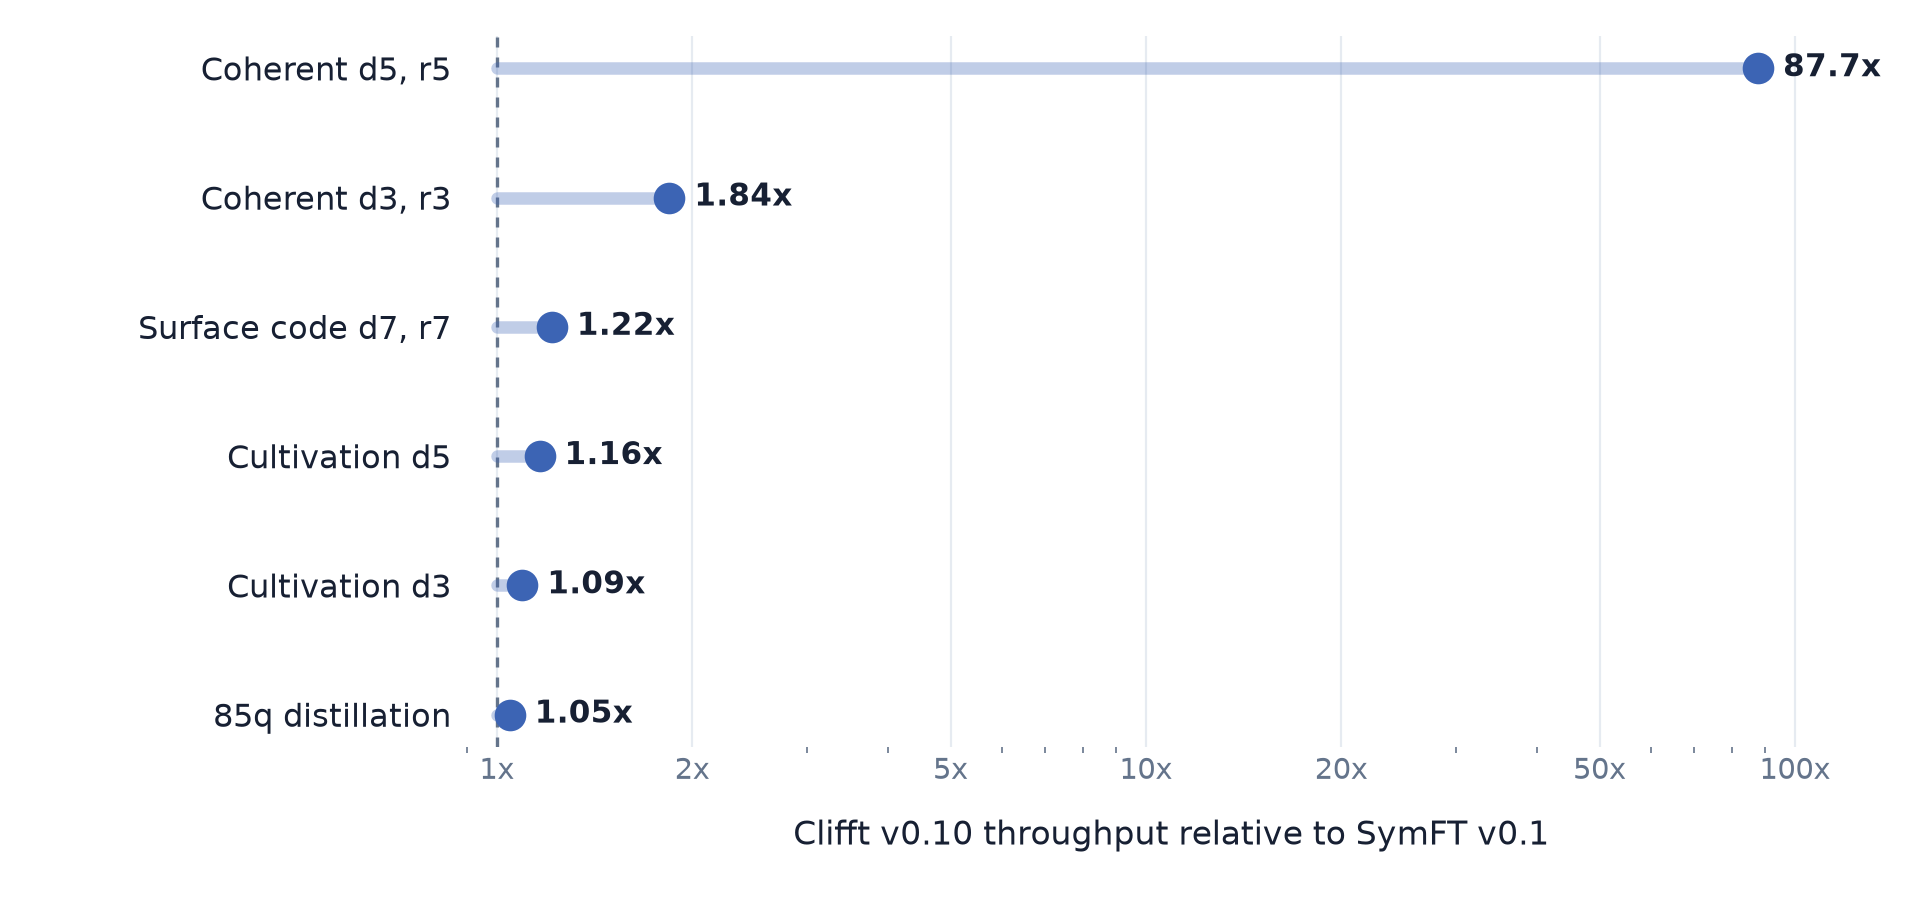
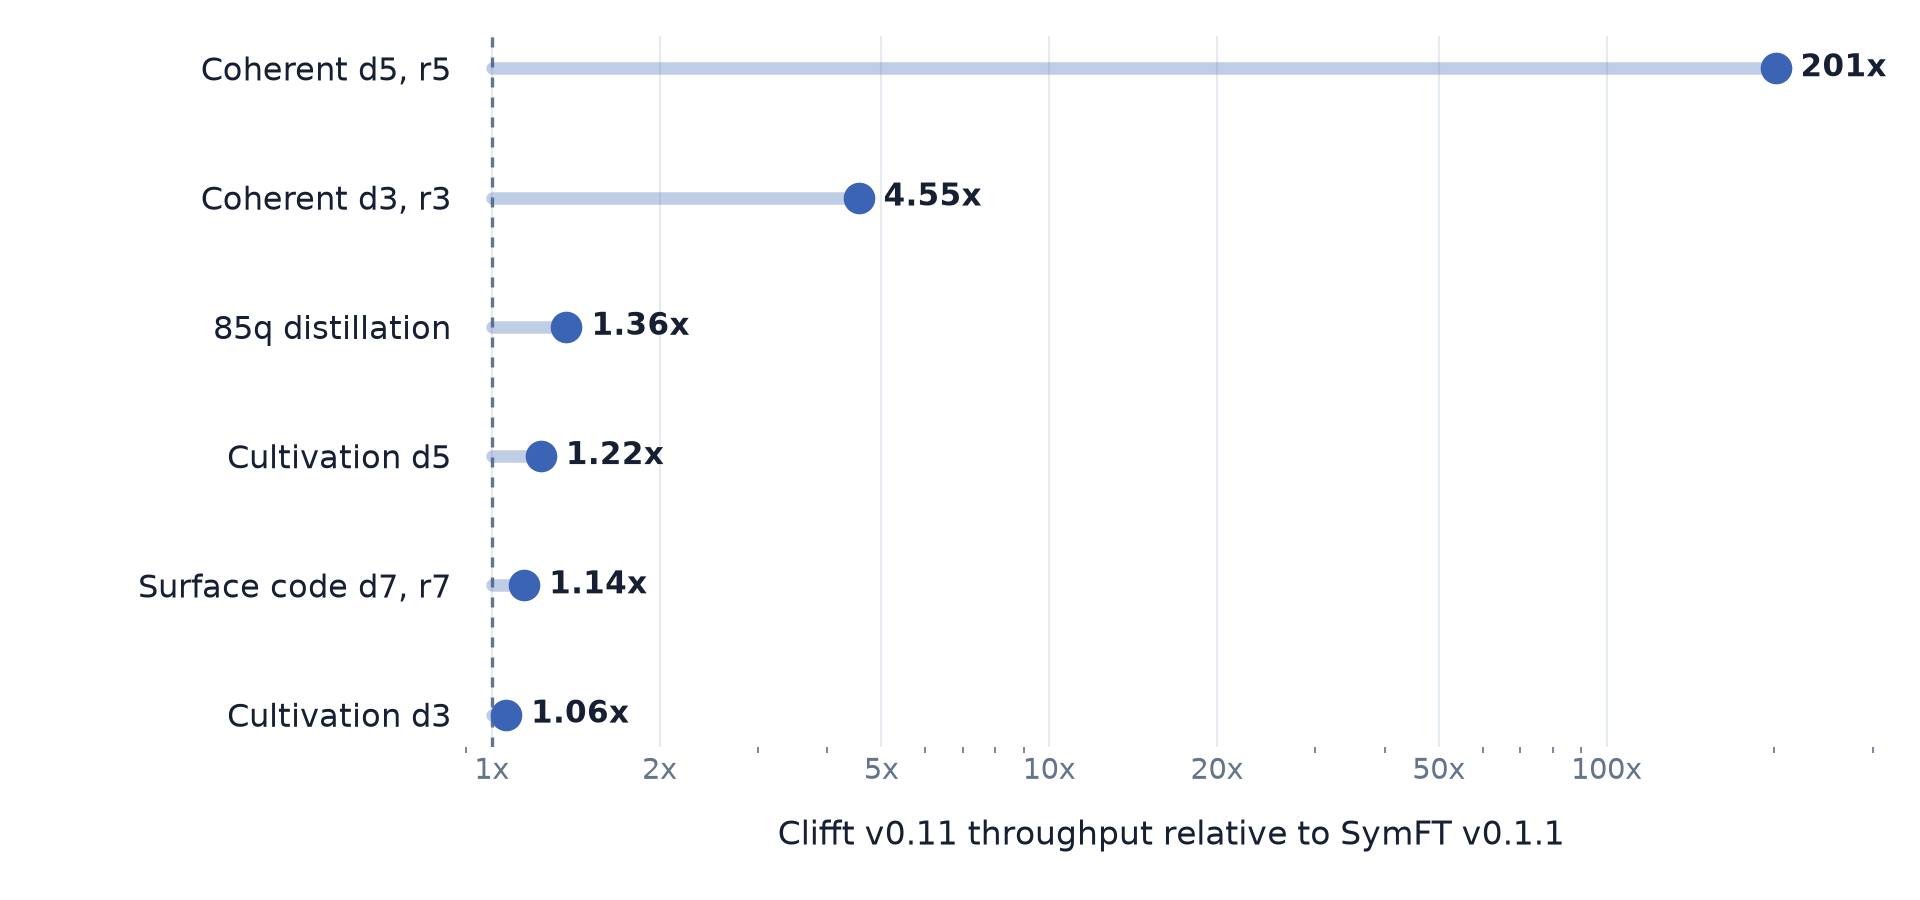
docs: report Clifft 0.11.0 benchmark results
Extend the reviewed release chain and regenerate the QEC publication and web figures. Update release labels, preserve the historical feature annotations, and allow the history plot to display the new median speedup.

Assisted-by: Codex (GPT-6) <noreply@openai.com>

diff --git a/reporting/qec.py b/reporting/qec.py
@@ -572,7 +572,7 @@ WEB_QEC_FIGURES = (
     "clifft-symft-throughput",
     "clifft-vs-symft",
     "performance-over-time",
-    "v010-vs-v009",
+    "v011-vs-v010",
 )
 
 
@@ -635,7 +635,7 @@ def _plot_web_ratios(
     xlabel: str,
     ticks: tuple[float, ...],
 ) -> None:
-    from matplotlib.ticker import FixedLocator, FuncFormatter
+    from matplotlib.ticker import FixedLocator, FuncFormatter, NullFormatter
 
     points.sort(key=lambda point: point[1])
     figure, axis = plt.subplots(figsize=(9.6, 4.5))
@@ -678,6 +678,7 @@ def _plot_web_ratios(
     axis.set_xlim(0.88, upper)
     axis.xaxis.set_major_locator(FixedLocator([tick for tick in ticks if tick <= upper]))
     axis.xaxis.set_major_formatter(FuncFormatter(lambda value, _position: f"{value:g}x"))
+    axis.xaxis.set_minor_formatter(NullFormatter())
     axis.set_yticks(
         positions,
         labels=[WORKLOAD_LABELS[workload] for workload, _ratio, _packed in points],
@@ -724,7 +725,7 @@ def _plot_web_release_comparison(
         ],
         output=output,
         xlabel=f"Clifft v{current} throughput relative to v{previous}",
-        ticks=(1, 2, 5, 10, 20, 50, 100, 200, 500, 1000),
+        ticks=(1, 1.5, 2, 3, 5, 10, 20, 50, 100, 200, 500, 1000),
     )
 
 
@@ -794,6 +795,8 @@ def _plot_web_history(plt: Any, theme: WebTheme, report: Report, output: Path) -
 
     positions = list(range(len(report.history.versions)))
     medians = report.history.medians
+    symbolic_index = report.history.versions.index("0.8.0")
+    packing_index = report.history.versions.index("0.10.0")
     figure, axis = plt.subplots(figsize=(9.6, 3.8))
     axis.axhline(1, color=theme.muted, linewidth=1.2, linestyle=(0, (3, 3)))
     axis.plot(
@@ -812,7 +815,7 @@ def _plot_web_history(plt: Any, theme: WebTheme, report: Report, output: Path) -
     axis.annotate(
         f"{medians[-1]:.0f}x median speedup",
         (positions[-1], medians[-1]),
-        xytext=(-26, -22),
+        xytext=(0, 18),
         textcoords="offset points",
         ha="right",
         color=theme.blue,
@@ -822,7 +825,7 @@ def _plot_web_history(plt: Any, theme: WebTheme, report: Report, output: Path) -
     )
     axis.annotate(
         "symbolic plans",
-        (positions[-3], medians[-3]),
+        (positions[symbolic_index], medians[symbolic_index]),
         xytext=(0, 28),
         textcoords="offset points",
         ha="center",
@@ -832,7 +835,7 @@ def _plot_web_history(plt: Any, theme: WebTheme, report: Report, output: Path) -
     )
     axis.annotate(
         "packing + compiler",
-        (positions[-1], medians[-1]),
+        (positions[packing_index], medians[packing_index]),
         xytext=(-72, 20),
         textcoords="offset points",
         ha="center",
@@ -841,8 +844,11 @@ def _plot_web_history(plt: Any, theme: WebTheme, report: Report, output: Path) -
         arrowprops={"arrowstyle": "-", "color": theme.grid, "linewidth": 1},
     )
     axis.set_yscale("log", base=2)
-    axis.set_ylim(0.72, 10.5)
-    axis.yaxis.set_major_locator(FixedLocator([1, 2, 4, 8]))
+    upper = max(10.5, max(medians) * 1.6)
+    axis.set_ylim(0.72, upper)
+    axis.yaxis.set_major_locator(
+        FixedLocator([2**power for power in range(math.floor(math.log2(upper)) + 1)])
+    )
     axis.yaxis.set_major_formatter(FuncFormatter(lambda value, _position: f"{value:g}x"))
     axis.set_xticks(
         positions,
@@ -972,7 +978,7 @@ def render_web(report: Report, output_dir: Path) -> list[Path]:
             plt, theme, report, output_dir / f"performance-over-time-{suffix}.png"
         )
         _plot_web_release_comparison(
-            plt, theme, report, output_dir / f"v010-vs-v009-{suffix}.png"
+            plt, theme, report, output_dir / f"v011-vs-v010-{suffix}.png"
         )
         _plot_web_combined_throughput(
             plt, theme, report, output_dir / f"clifft-symft-throughput-{suffix}.png"

diff --git a/tests/test_reporting.py b/tests/test_reporting.py
@@ -114,7 +114,7 @@ def test_reporting_rejects_missing_core_measurements(copied_sources: Path, secti
 def test_reporting_chains_calibrated_release_onto_scalar_history() -> None:
     report = build_report(SOURCES)
 
-    assert report.history.versions[:10] == (
+    assert report.history.versions == (
         "0.1.0",
         "0.2.0",
         "0.3.0",
@@ -125,10 +125,12 @@ def test_reporting_chains_calibrated_release_onto_scalar_history() -> None:
         "0.8.0",
         "0.9.0",
         "0.10.0",
+        "0.11.0",
     )
-    assert report.history.source_executions[8:10] == (
+    assert report.history.source_executions[8:] == (
         "clifft-history-v1-20260902",
         "release-v1-20260903-133252",
+        "release-v1-20260930-180134",
     )
     assert set(report.history.speedups) == set(WORKLOAD_ORDER)
     assert all(
@@ -184,7 +186,7 @@ def test_release_loader_accepts_current_campaign_with_stim_anchor(tmp_path: Path
     source = ROOT / _source_document()["release_executions"][-1]
     expected = _load_release(source)
     with (source / "cases.csv").open(newline="") as stream:
-        cases = list(csv.DictReader(stream))
+        cases = [row for row in csv.DictReader(stream) if row["variant_id"] != "stim-current"]
     surface = "surface-code-d7-r7-p1e-3"
     template = next(
         row for row in cases
@@ -201,7 +203,7 @@ def test_release_loader_accepts_current_campaign_with_stim_anchor(tmp_path: Path
         "median_attempted_shots_per_second": "1000000",
     })
     # Use the real producer and active manifest so putting Stim back into the
-    # SymFT comparison makes this fail, even though archived results lack Stim.
+    # SymFT comparison makes this fail, whether or not the source already has Stim.
     suite = load_suite(ROOT / "campaigns/release-v1/run.v1.json")
     rows = collect_comparisons(suite, source.name, cases)
     execution = tmp_path / source.name
@@ -252,12 +254,12 @@ def test_combined_throughput_uses_both_calibrated_absolute_rates() -> None:
             float(row["ratio_candidate_over_baseline"]) for row in selected
         )
 
-    near_tie = points["distillation-color-code-85q-p5e-2"]
-    assert round(near_tie.clifft_over_alternative, 2) == 1.05
+    near_tie = points["msc-d3-inject-cultivate-p1e-3"]
+    assert round(near_tie.clifft_over_alternative, 2) == 1.06
     outlier = points["coherent-surface-d5-r5-p1e-3-rz2e-2"]
-    assert round(outlier.clifft_rate) == 5819
-    assert round(outlier.alternative_rate) == 66
-    assert round(outlier.clifft_over_alternative, 1) == 87.7
+    assert round(outlier.clifft_rate) == 12893
+    assert round(outlier.alternative_rate) == 64
+    assert round(outlier.clifft_over_alternative, 1) == 200.9
 
 
 def test_web_output_paths_cover_all_qec_assets(tmp_path: Path) -> None:
@@ -270,8 +272,8 @@ def test_web_output_paths_cover_all_qec_assets(tmp_path: Path) -> None:
         "clifft-vs-symft-dark.png",
         "performance-over-time-light.png",
         "performance-over-time-dark.png",
-        "v010-vs-v009-light.png",
-        "v010-vs-v009-dark.png",
+        "v011-vs-v010-light.png",
+        "v011-vs-v010-dark.png",
     }
 
 

diff --git a/reporting/README.md b/reporting/README.md
@@ -50,7 +50,7 @@ The web-ready, transparent light/dark figures are checked in under
   relative to calibrated SymFT. This optional pair remains available here but
   is not consumed by Clifft's documentation.
 - `performance-over-time-{light,dark}.png`: median Clifft speedup since v0.1.0.
-- `v010-vs-v009-{light,dark}.png`: current release throughput relative to the
+- `v011-vs-v010-{light,dark}.png`: current release throughput relative to the
   previous release, retaining packed/scalar marker fill.
 - `quantum-volume-{light,dark}.png`: median execution time for Clifft, Qiskit
   Aer, qsim, and Qulacs from the selected QV execution.
@@ -80,8 +80,9 @@ uv run --extra report python reporting/qec.py --check
 uv run --extra report python reporting/qec.py --style web
 ```
 
-Regenerate the QV pair from the exact `qv_execution` selected in
-`sources.json`. For the currently selected execution, run:
+The QV pair remains based on the reviewed 0.10.0rc1 execution; the QEC release
+campaign does not provide new Quantum Volume measurements. To regenerate that
+pair from the exact `qv_execution` selected in `sources.json`, run:
 
 ```bash
 cd experiments/qv
@@ -119,7 +120,7 @@ CLIFFT_CHECKOUT=/path/to/clifft
 cp reporting/figures/web/clifft-throughput-{light,dark}.png \
   reporting/figures/web/clifft-symft-throughput-{light,dark}.png \
   reporting/figures/web/performance-over-time-{light,dark}.png \
-  reporting/figures/web/v010-vs-v009-{light,dark}.png \
+  reporting/figures/web/v011-vs-v010-{light,dark}.png \
   reporting/figures/web/quantum-volume-{light,dark}.png \
   "$CLIFFT_CHECKOUT/docs/assets/performance/"
 ```
@@ -131,7 +132,7 @@ absolute-throughput figure, while the guide uses the new combined figure. Do not
 copy the optional relative-only `clifft-vs-symft` pair.
 Review both light and dark variants
 in the Clifft pull request. For a later release pair, update the release-specific
-`v010-vs-v009` output stem and its Clifft references as part of that release's
+`v011-vs-v010` output stem and its Clifft references as part of that release's
 report refresh.
 
 ## How the QEC history is combined

diff --git a/README.md b/README.md
@@ -17,21 +17,23 @@ See the [Performance guide](https://unitaryfoundation.github.io/clifft/stable/gu
 for interpretation, methodology, and longer-term performance history.
 
 These figures use the reviewed
-[Clifft 0.10.0 release-candidate results](results/release-v1/release-v1-20260903-133252/).
-Plot labels show the intended release version; the measurements used 0.10.0rc1.
+[Clifft 0.11.0 release-candidate results](results/release-v1/release-v1-20260930-180134/).
+Plot labels show the intended release versions; the measurements used
+0.11.0rc1 with active-width scheduling and the 0.10.0rc1 baseline, with batch
+size calibrated independently for each workload and implementation.
 
 ### Did Clifft get faster in the latest release?
 
 <picture>
-  <source media="(prefers-color-scheme: dark)" srcset="reporting/figures/web/v010-vs-v009-dark.png">
-  <img src="reporting/figures/web/v010-vs-v009-light.png" alt="Clifft 0.10.0 throughput relative to 0.9.0 across QEC workloads">
+  <source media="(prefers-color-scheme: dark)" srcset="reporting/figures/web/v011-vs-v010-dark.png">
+  <img src="reporting/figures/web/v011-vs-v010-light.png" alt="Clifft 0.11.0 throughput relative to 0.10.0 across QEC workloads">
 </picture>
 
 ### How does Clifft compare with other simulators?
 
 <picture>
   <source media="(prefers-color-scheme: dark)" srcset="reporting/figures/web/clifft-symft-throughput-dark.png">
-  <img src="reporting/figures/web/clifft-symft-throughput-light.png" alt="Clifft 0.10.0 and SymFT 0.1.0 attempted shots per second, with Clifft/SymFT speedup ratios for each workload">
+  <img src="reporting/figures/web/clifft-symft-throughput-light.png" alt="Clifft 0.11.0 and SymFT 0.1.1 attempted shots per second, with Clifft/SymFT speedup ratios for each workload">
 </picture>
 
 ## Reproduce or contribute
